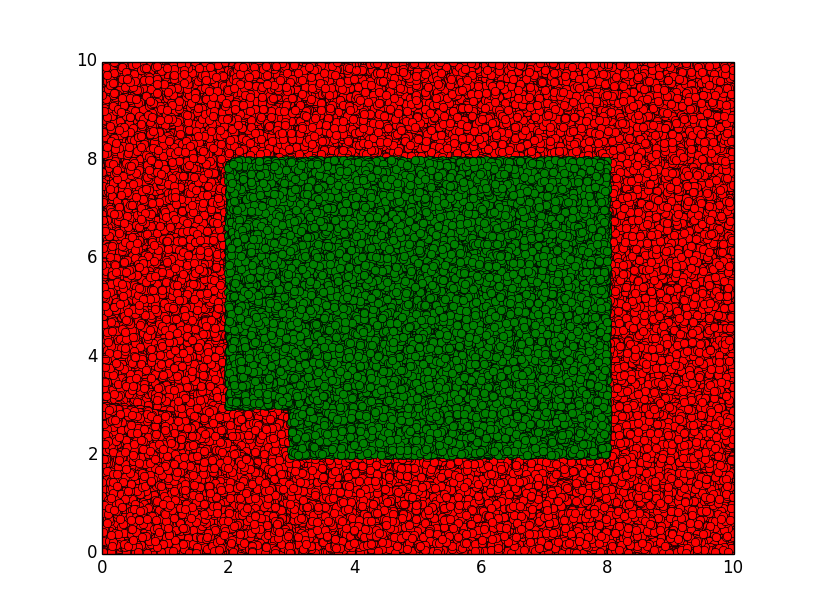
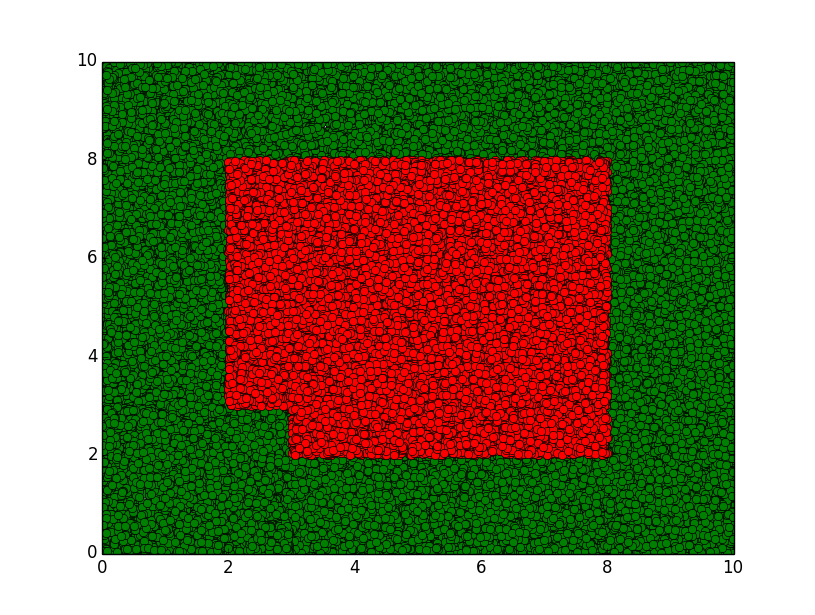
made 2b better; made r/g correspondence match problem

diff --git a/code and data/q2/voter.py b/code and data/q2/voter.py
@@ -16,38 +16,39 @@ def genData(data_file):
     lines = lines[:-1] # remove the end newline
     k = int(round(0.2*len(lines),0)) # 20% of circles.train
     for j in range(1,102):
-        outname = "train_"+str(j)
-        outfiles[outname] = open(outname, 'w')
+        outfiles[outname(j)] = open(outname(j), 'w')
         for line in random.sample(lines, k):
-            outfiles[outname].write(line)
-        outfiles[outname].close()
+            outfiles[outname(j)].write(line)
+        outfiles[outname(j)].close()
 
+def outname(j):
+    return "train_"+str(j)
+        
 def showAllPlots():
     for j in range(1,102):
-        outname = "train_"+str(j)
-        plotter.main(outname)
+        plotter.main(outname(j))
         
 def saveAllPlots():
     for j in range(1,102):
-        outname = "train_"+str(j)
-        plotter.main(outname, "grid", False)        
+        plotter.main(outname(j), "grid", False)        
         
 def main(data_file="circle.train", grid_file="grid"):
     genData(data_file) # writes 101 small train sets to disk
     #showAllPlots() # shows 101 subplots, one at a time
     #saveAllPlots() # saves all 101 subplots to disc as pngs
+    vote(grid_file) # uses the 101 small DT's to do majority voting
+  
+def vote(grid_file):
     trees = {}
     x_p, y_p, x_n, y_n = [], [], [], []
     for j in range(1,102):
-        outname = "train_"+str(j)
-        trees[outname] = dt.TDIDT(outname)
-    classifications = defaultdict(int)
+        trees[outname(j)] = dt.TDIDT(outname(j))
     examples = dt.examplesFromFile(grid_file)
     for true_label in examples:
         for example in examples[true_label]:
+            classifications = defaultdict(int)
             for j in range(1,102):
-                outname = "train_"+str(j)
-                label = trees[outname].classify(example)
+                label = trees[outname(j)].classify(example)
                 classifications[label] += 1
             maximum = -sys.maxint-1
             for label in classifications:
@@ -66,10 +67,10 @@ def main(data_file="circle.train", grid_file="grid"):
     x_n = np.array(x_n)
     y_n = np.array(y_n)
     
-    matlab.plot(x_n,y_n,'ro')
-    matlab.plot(x_p,y_p,'go')
-    matlab.show()   
-             
+    matlab.plot(x_n,y_n,'go')
+    matlab.plot(x_p,y_p,'ro')
+    matlab.show() 
+  
 # arg0: script name (voter.py)
 # arg1: data_file for training
 if __name__ == "__main__":

diff --git a/code and data/q2/plotter.py b/code and data/q2/plotter.py
@@ -23,10 +23,8 @@ def main(data_file="circle.train", grid_file="grid", show=True):
     x_n = np.array(x_n)
     y_n = np.array(y_n)
     
-    print x_p[5], y_p[5]
-    
-    matlab.plot(x_n,y_n,'ro')
-    matlab.plot(x_p,y_p,'go')
+    matlab.plot(x_n,y_n,'go')
+    matlab.plot(x_p,y_p,'ro')
     if show:
         matlab.show()
     else:
